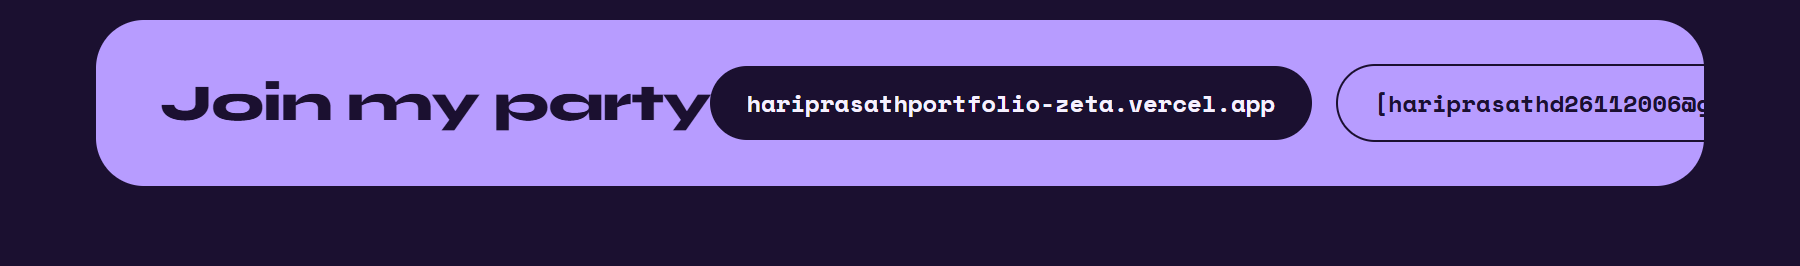
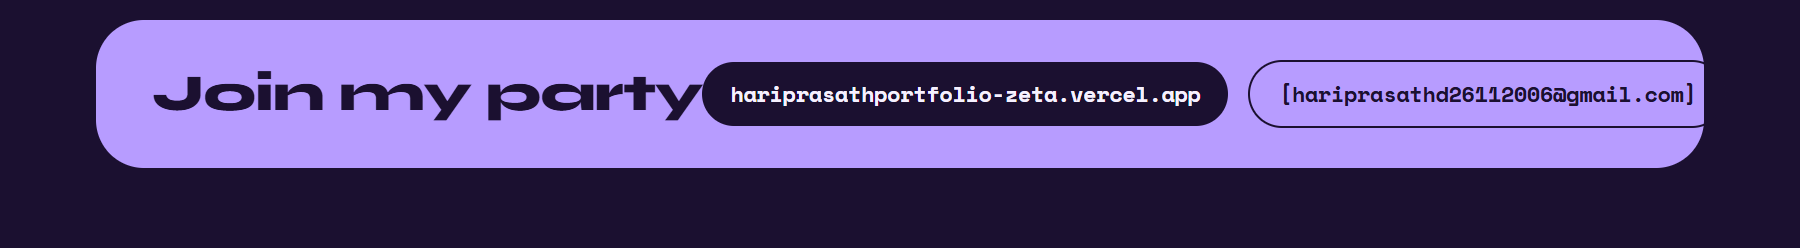
feat: add footer component template and preview asset

diff --git a/assets/src/05-footer.html b/assets/src/05-footer.html
@@ -21,7 +21,7 @@
     .footer-card {
       background-color: #B79CFF;
       border-radius: 24px;
-      padding: 22px 32px;
+      padding: 20px 28px;
       display: flex;
       justify-content: space-between;
       align-items: center;
@@ -38,14 +38,15 @@
     .footer-pills {
       display: flex;
       align-items: center;
-      gap: 12px;
+      gap: 10px;
     }
     .pill {
       border-radius: 999px;
-      padding: 10px 18px;
+      padding: 8px 14px;
       font-family: 'Space Mono', monospace;
-      font-size: 12px;
+      font-size: 11px;
       font-weight: 700;
+      letter-spacing: -0.2px;
       display: inline-flex;
       align-items: center;
       justify-content: center;
@@ -58,7 +59,7 @@
     }
     .pill-outlined {
       background-color: transparent;
-      border: 1.5px solid #1B1030;
+      border: 1.2px solid #1B1030;
       color: #1B1030;
     }
   </style>
